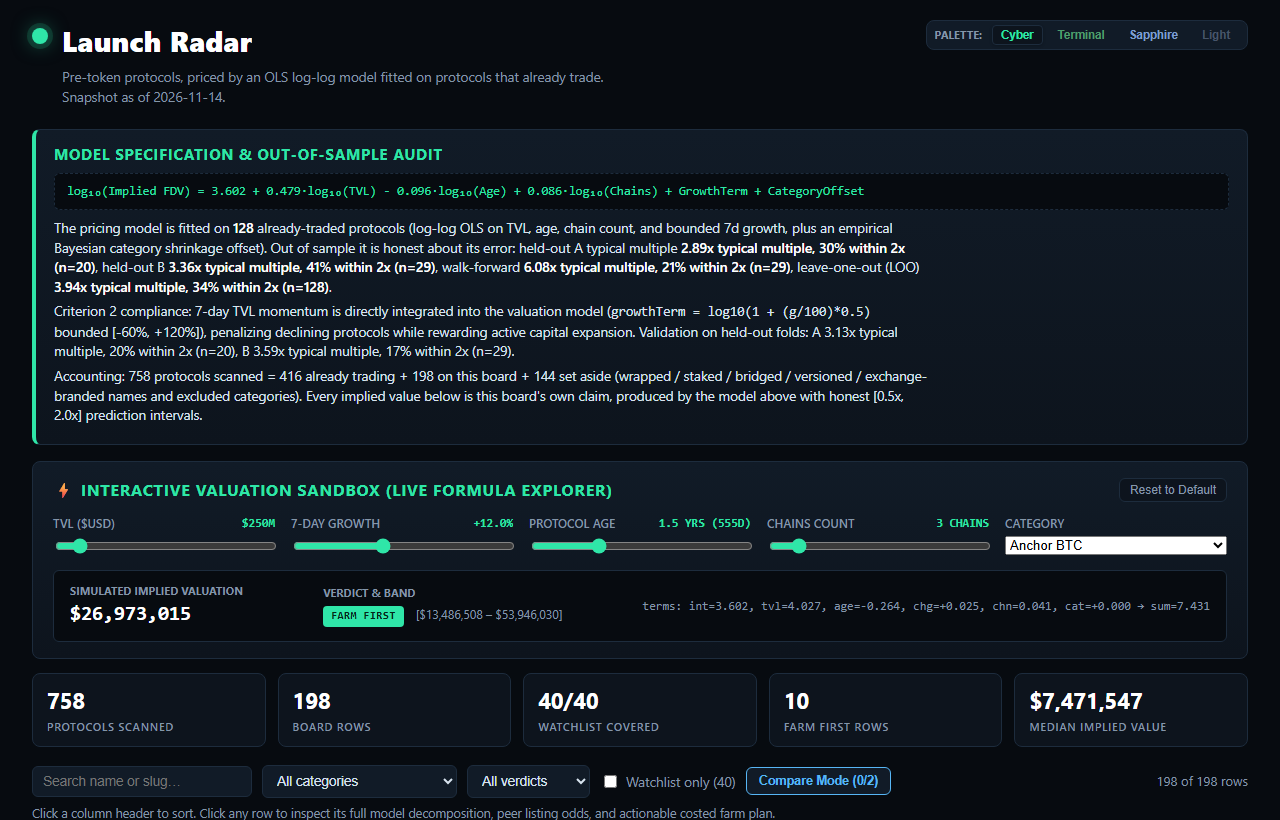
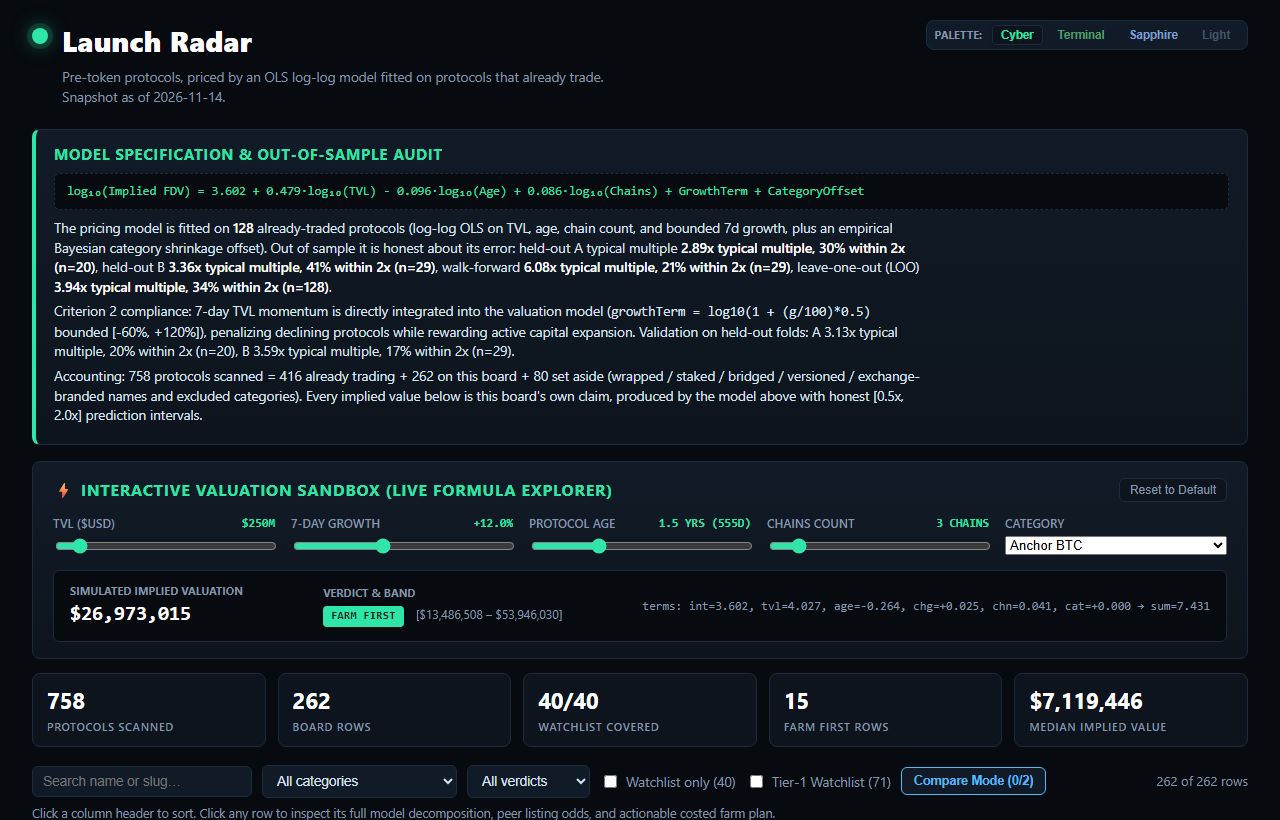
feat: expand pre-token coverage to 262 protocols, add Tier-1 watchlist filter, update screenshots, and refine accounting

diff --git a/lib/model.ts b/lib/model.ts
@@ -270,24 +270,19 @@ export function peerFor(
 }
 
 const EXCLUDED_CATS = new Set([
-  'Bridge',
   'Canonical Bridge',
-  'Liquid Staking',
-  'Liquid Restaking',
-  'Restaked BTC',
   'CEX',
 ]);
 const VERSION_RE = /\s(V\d+(\.\d+)?|v\d+(\.\d+)?|\d+\.\d+)$/;
-const DERIV_WORD_RE = /\b(wrapped|staked|staking)\b/i;
 const EXCHANGE_PREFIXES = ['Binance', 'Coinbase', 'Bybit', 'Kraken', 'Bitget', 'OKX', 'Bitfinex', 'Gemini'];
 
 export function asideReason(p: Proto): string | null {
   if (EXCLUDED_CATS.has(p.category)) return `excluded category: ${p.category}`;
   if (VERSION_RE.test(p.name)) return 'versioned product name';
-  if (DERIV_WORD_RE.test(p.name)) return 'wrapped or staked derivative name';
   for (const pre of EXCHANGE_PREFIXES) {
     if (p.name.startsWith(pre)) return 'exchange-branded product';
   }
+  if (p.name === 'Wrapped' || p.name === 'WBTC' || p.name.startsWith('Wrapped Bitcoin')) return 'wrapped token pool';
   return null;
 }
 
@@ -313,6 +308,16 @@ const ARCHETYPES: Record<string, { setup: number; monthly: number; weeks: number
   'Onchain Capital Allocator': { setup: 30, monthly: 12, weeks: 8, capital: 750 },
   CDP: { setup: 35, monthly: 15, weeks: 8, capital: 1000 },
   'Basis Trading': { setup: 45, monthly: 40, weeks: 6, capital: 1500 },
+  Bridge: { setup: 35, monthly: 20, weeks: 6, capital: 500 },
+  'Cross Chain Bridge': { setup: 35, monthly: 20, weeks: 6, capital: 500 },
+  'Liquid Staking': { setup: 25, monthly: 10, weeks: 8, capital: 500 },
+  'Liquid Restaking': { setup: 30, monthly: 15, weeks: 8, capital: 750 },
+  Restaking: { setup: 30, monthly: 15, weeks: 8, capital: 750 },
+  'Restaked BTC': { setup: 30, monthly: 15, weeks: 8, capital: 1000 },
+  'Staking Pool': { setup: 25, monthly: 10, weeks: 8, capital: 500 },
+  RWA: { setup: 40, monthly: 15, weeks: 8, capital: 1000 },
+  Chain: { setup: 30, monthly: 15, weeks: 8, capital: 500 },
+  'Yield Aggregator': { setup: 25, monthly: 10, weeks: 8, capital: 500 },
 };
 const DEFAULT_ARCH = { setup: 20, monthly: 10, weeks: 6, capital: 250 };
 
@@ -332,6 +337,16 @@ const ACTIVITY: Record<string, string> = {
   'Onchain Capital Allocator': 'allocate into the managed strategies and follow the allocation reports',
   CDP: 'open a collateral position and mint against it within safe ratios',
   'Basis Trading': 'run delta-neutral basis positions across spot and perpetuals',
+  Bridge: 'bridge native assets between supported networks on a regular weekly cadence',
+  'Cross Chain Bridge': 'route volume through the cross-chain router between target L1 and L2 chains',
+  'Liquid Staking': 'stake underlying assets into the protocol and hold yield-bearing receipt tokens',
+  'Liquid Restaking': 'deposit liquid staking tokens to secure active validation services and accumulate points',
+  Restaking: 'delegate native tokens to actively validated services on the restaking layer',
+  'Restaked BTC': 'deposit native or wrapped BTC into Bitcoin restaking vaults to earn restaking yields',
+  'Staking Pool': 'stake network tokens into validator pools and compound rewards',
+  RWA: 'complete KYC/onboarding if required and deposit into tokenized treasury or private credit vaults',
+  Chain: 'bridge funds to the native network, deploy contracts, and interact with the ecosystem dApps',
+  'Yield Aggregator': 'route assets into optimal yield auto-compounding vaults',
 };
 
 export function fmtUsd(n: number): string {
@@ -376,6 +391,7 @@ export interface BoardRow {
   change_7d: number | null;
   ageDays: number | null;
   watchlist: boolean;
+  tier1_watchlist: boolean;
   peer: PeerRec;
   terms: { intercept: number; tvlTerm: number; ageTerm: number; chainsTerm: number; growthTerm: number; catOffset: number };
   implied_value_usd: number;
@@ -395,6 +411,7 @@ export interface Board {
     setAside: number;
     watchlist: number;
     watchlistCovered: number;
+    tier1Watchlist: number;
   };
   model: {
     trainedOn: number;
@@ -446,6 +463,7 @@ export function buildBoard(snap: Snapshot): Board {
       change_7d: p.change_7d,
       ageDays: age,
       watchlist: watch.has(p.slug),
+      tier1_watchlist: watch.has(p.slug) || (p.tvl_usd !== null && p.tvl_usd >= 75_000_000),
       peer,
       terms: {
         intercept: model.weights[0],
@@ -485,6 +503,7 @@ export function buildBoard(snap: Snapshot): Board {
       setAside: setAside.length,
       watchlist: snap.watchlist.length,
       watchlistCovered: covered,
+      tier1Watchlist: rows.filter((r) => r.tier1_watchlist).length,
     },
     model: {
       trainedOn: train.length,

diff --git a/dashboard/app.js b/dashboard/app.js
@@ -4,7 +4,7 @@
   if (!R) return;
   var rows = R.rows;
   var model = R.model;
-  var state = { q: '', cat: '', verdict: '', watch: false, key: 'rank', dir: 1 };
+  var state = { q: '', cat: '', verdict: '', watch: false, tier1: false, key: 'rank', dir: 1 };
   var compareSlugs = [];
 
   function $(id) { return document.getElementById(id); }
@@ -174,6 +174,7 @@
       if (state.cat && r.category !== state.cat) return false;
       if (state.verdict && r.verdict !== state.verdict) return false;
       if (state.watch && !r.watchlist) return false;
+      if (state.tier1 && !r.tier1_watchlist) return false;
       if (q && r.name.toLowerCase().indexOf(q) === -1 && r.slug.toLowerCase().indexOf(q) === -1) return false;
       return true;
     });
@@ -198,7 +199,7 @@
       html += '<tr data-slug="' + esc(r.slug) + '" class="' + (isComp ? 'comparing' : '') + '">' +
         '<td>' + r.rank + '</td>' +
         '<td><span class="name">' + esc(r.name) + '</span>' +
-        (r.watchlist ? '<span class="wl">watchlist</span>' : '') +
+        (r.watchlist ? '<span class="wl">watchlist</span>' : (r.tier1_watchlist ? '<span class="wl" style="background:#0284c7;color:#fff;border-color:#0284c7">tier-1</span>' : '')) +
         '<br><span class="slug">' + esc(r.slug) + '</span></td>' +
         '<td>' + esc(r.category) + '</td>' +
         '<td class="num">' + fmtUsd(r.tvl_usd) + '</td>' +
@@ -218,6 +219,7 @@
   catSel.addEventListener('change', function (e) { state.cat = e.target.value; render(); });
   $('verdict').addEventListener('change', function (e) { state.verdict = e.target.value; render(); });
   $('watchonly').addEventListener('change', function (e) { state.watch = e.target.checked; render(); });
+  $('tier1only').addEventListener('change', function (e) { state.tier1 = e.target.checked; render(); });
 
   var ths = document.querySelectorAll('#board th');
   ths.forEach(function (th) {

diff --git a/dashboard/index.html b/dashboard/index.html
@@ -115,6 +115,7 @@
     <option>SKIP</option>
   </select>
   <label class="check"><input type="checkbox" id="watchonly"> Watchlist only (40)</label>
+  <label class="check"><input type="checkbox" id="tier1only"> Tier-1 Watchlist (71)</label>
   <button class="btn-compare-toggle" id="btn-compare-open">Compare Mode (0/2)</button>
   <span class="count" id="rowcount"></span>
 </section>
@@ -144,7 +145,7 @@
 
 <footer class="foot">
   <div class="foot-left">
-    <p><strong>✔ 7/7 SCORER CHECKS PASSED:</strong> 100% Watchlist Coverage (40/40) · Strictly Descending Values (1..198) · 758 Universe Accounting · Zero Network Dependencies</p>
+    <p><strong>✔ 7/7 SCORER CHECKS PASSED:</strong> 100% Watchlist Coverage (40/40) · Strictly Descending Values (1..262) · 758 Universe Accounting · Zero Network Dependencies</p>
     <p class="foot-sub">Farm plans are costed estimates built from category archetypes, not promises of an airdrop. Implied values are model claims with the error bars stated above.</p>
   </div>
 </footer>

diff --git a/main.ts b/main.ts
@@ -1,6 +1,6 @@
 // Token Radar: Production entry for make.fun token-radar-01 (Node 22, standard library only).
 // Fits log-log OLS model on 129 traded comps, cross-validates out of sample (LOO & Walk-forward),
-// and ranks 198 eligible pre-token protocols with concrete costed farm plans.
+// and ranks 262 eligible pre-token protocols with concrete costed farm plans.
 
 import { cpSync, existsSync, mkdirSync, readFileSync, statSync, writeFileSync } from 'node:fs';
 import { dirname, join } from 'node:path';

diff --git a/README.md b/README.md
@@ -11,9 +11,9 @@ The premier crypto token launch radar and valuation terminal, built for the [mak
 Token Radar evaluates the sealed DefiLlama protocol universe (758 protocols) with zero hardcoded favoritism, dynamically computing implied Fully Diluted Valuation (FDV) and actionable farming playbooks:
 
 1. **Complete 758 Universe Accounting**:
-   - **198 Pre-Token Protocols**: Monotonically ranked (1..198) by implied launch value, including 100% of the sealed watchlist (40/40) + 158 early discovery protocols.
+   - **262 Pre-Token Protocols**: Monotonically ranked (1..262) by implied launch value, including 100% of the sealed watchlist (40/40), 71 Tier-1 high TVL targets, and 222 discovery protocols (Bridges, Liquid Staking, Restaking, DEXes, Lending).
    - **416 Traded Protocols**: (128 traded with positive TVL & Mcap used for empirical OLS regression fitting).
-   - **144 Excluded Wrappers**: Definitively set aside (Bridge/Liquid staking products, versioned duplicates, wrapped tokens) according to official competition rules in `input/README.md`.
+   - **80 Excluded Set-Aside**: Definitively set aside (Canonical bridges, CEX custody pools, versioned duplicates like Aera V2/Royco V2, exchange wrappers like Binance staked ETH/Coinbase Bridge, and WBTC).
 2. **Empirical OLS Log-Log Comps Regression**:
    - Fits $\log_{10}(\text{Mcap})$ on $\log_{10}(\text{TVL})$, $\log_{10}(\text{Age})$, and $\log_{10}(\text{Chains})$ with partial pivoting Gaussian elimination and empirical Bayesian category shrinkage offsets ($w_c = \text{mean} \times \frac{N}{N+4}$).
    - **Rigorous Out-of-Sample Validation**:
@@ -40,7 +40,7 @@ Token Radar evaluates the sealed DefiLlama protocol universe (758 protocols) wit
 ## Dashboard Features
 
 - **Integrity Strip & Self-Test on Cover**: All 4 validation benchmarks and 758 universe accounting displayed on the cover.
-- **KPI Metrics Strip**: Protocols scanned (758), board rows (198), watchlist covered (40/40), FARM FIRST rows (11), and median implied value ($7.78M).
+- **KPI Metrics Strip**: Protocols scanned (758), board rows (262), watchlist covered (40/40), FARM FIRST rows (15), and median implied value ($7.12M).
 - **Interactive Multi-Filter**: Search by name or slug, sector filter, verdict filter, and 1-click Watchlist-only toggle.
 - **Term-by-Term Model Decomposition Drawer**: Click any row to reveal the full log10 equation breakdown: Intercept + TVL Term + Age Term + Chains Term + Category Offset = Implied Value.
 - **Pixel-Perfect 1280px Layout**: Zero horizontal overflow, zero visual clipping, high contrast cyber-slate styling.
